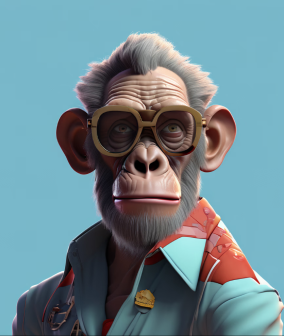
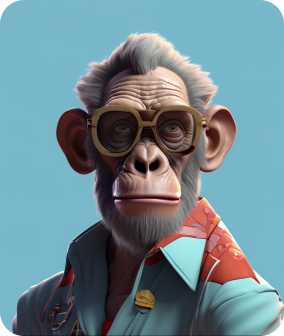
Ohhh... stup... slick! Collection done!

diff --git a/src/components/CollectSlider/CollectSlider.jsx b/src/components/CollectSlider/CollectSlider.jsx
@@ -1,0 +1,85 @@
+import React, { useRef } from "react";
+// import Slider from "react-slick";
+import "slick-carousel/slick/slick.css";
+import "slick-carousel/slick/slick-theme.css";
+import PropTypes from "prop-types";
+import { ButtonThumb, StyledSlider } from "./CollectSlider.styled";
+// import MindMapUnit from "../MindMapUnit/MindMapUnit";
+// import { useMedia } from "use-media";
+import CollectionUnit from "../CollectionUnit/CollectionUnit";
+
+function CollectSlider({ photos }) {
+    const sliderRef = useRef(null);
+    // const isMobScreen = useMedia({ maxWidth: "767px" });
+
+    const settings = {
+        dots: false,
+        infinite: false,
+        arrows: false,
+        speed: 666,
+        slidesToShow: 4,
+        slidesToScroll: 1,
+        initialSlide: 0,
+        variableWidth: true,
+        afterChange: (currentSlide) => {
+            console.log("Поточний слайд:", currentSlide);
+            // Тут можна додати додаткову логіку, якщо потрібно
+        },
+        responsive: [
+            {
+                breakpoint: 767,
+                settings: {
+                    slidesToShow: 1,
+                    slidesToScroll: 1,
+                },
+            },
+            {
+                breakpoint: 1279,
+                settings: {
+                    slidesToShow: 2,
+                    slidesToScroll: 1,
+                },
+            },
+        ],
+    };
+
+    const handlePrevClick = () => {
+        sliderRef.current.slickPrev();
+    };
+
+    const handleNextClick = () => {
+        sliderRef.current.slickNext();
+    };
+
+    const onSlideClick = () => {
+        sliderRef.current.slickNext();
+    };
+
+    return (
+        <>
+            <StyledSlider ref={sliderRef} {...settings}>
+                {photos.map((unit, index) => (
+                    <CollectionUnit
+                        key={index}
+                        unit={unit}
+                        slideOnClick={onSlideClick}
+                    />
+                ))}
+            </StyledSlider>
+            <ButtonThumb>
+                <button type='button' onClick={handlePrevClick}>
+                    Prev
+                </button>
+                <button type='button' onClick={handleNextClick}>
+                    Next
+                </button>
+            </ButtonThumb>
+        </>
+    );
+}
+
+export default CollectSlider;
+
+CollectSlider.propTypes = {
+    photos: PropTypes.array.isRequired,
+};

diff --git a/src/components/CollectSlider/CollectSlider.styled.js b/src/components/CollectSlider/CollectSlider.styled.js
@@ -1,0 +1,50 @@
+import Slider from "react-slick";
+import styled from "styled-components";
+import { root } from "../../stylesheets/root";
+
+export const StyledSlider = styled(Slider)`
+    display: flex;
+    width: 216px;
+    height: 256px;
+    margin: 0 auto 24px;
+    border-radius: 12px;
+
+    .slick-track {
+        width: 4444px !important;
+    }
+
+    @media (min-width: ${root.breakpoints.tablet}) {
+        width: 592px;
+        height: 336px;
+    }
+
+    @media (min-width: ${root.breakpoints.desktop}) {
+        width: 1032px;
+        height: 280px;
+        margin-bottom: 48px;
+    }
+`;
+
+export const ButtonThumb = styled.div`
+    display: flex;
+    justify-content: space-between;
+    align-items: center;
+    margin: 0 auto;
+    width: 150px;
+
+    button {
+        background-color: transparent;
+        border: none;
+        font-family: ${root.fonts.biro};
+        font-weight: 400;
+        font-size: 24px;
+        line-height: 1;
+        color: ${root.colors.textLigth};
+
+        &:active,
+        &:hover,
+        &:focus {
+            color: ${root.colors.mainPinkColor};
+        }
+    }
+`;

diff --git a/src/components/Collection/Collection.styled.js b/src/components/Collection/Collection.styled.js
@@ -1,0 +1,37 @@
+import styled from "styled-components";
+import { root } from "../../stylesheets/root";
+
+export const CollectContainer = styled.div`
+    margin: 0 auto;
+    padding: ${root.container.paddingMob};
+
+    h2 {
+        font-family: ${root.fonts.grotesk};
+        font-weight: 900;
+        font-size: 44px;
+        line-height: 0.9;
+        text-transform: uppercase;
+        color: ${root.colors.textLigth};
+        text-align: center;
+        margin-bottom: 24px;
+    }
+
+    @media (min-width: ${root.breakpoints.tablet}) {
+        padding: ${root.container.paddingTab};
+
+        h2 {
+            font-size: 80px;
+            line-height: 1;
+            margin-bottom: 40px;
+        }
+    }
+
+    @media (min-width: ${root.breakpoints.desktop}) {
+        padding: ${root.container.paddingDesk};
+
+        h2 {
+            font-size: 160px;
+            margin-bottom: 80px;
+        }
+    }
+`;

diff --git a/src/components/Collection/Collection.jsx b/src/components/Collection/Collection.jsx
@@ -1,0 +1,26 @@
+import React from "react";
+import CollectSlider from "../CollectSlider/CollectSlider";
+import { Section } from "../../GlobalStyle.styled";
+import { CollectContainer } from "./Collection.styled";
+import collection from "../../exports/collection";
+import { useMedia } from "use-media";
+
+function Collection() {
+    const isMobScreen = useMedia({ maxWidth: "767px" });
+    return (
+        <Section>
+            <CollectContainer>
+                <h2>collection</h2>
+                <CollectSlider
+                    photos={
+                        isMobScreen
+                            ? collection.imgMobile
+                            : collection.imgDesktop
+                    }
+                />
+            </CollectContainer>
+        </Section>
+    );
+}
+
+export default Collection;

diff --git a/src/components/CollectionUnit/CollectionUnit.styled.js b/src/components/CollectionUnit/CollectionUnit.styled.js
@@ -1,0 +1,39 @@
+import styled from "styled-components";
+import { root } from "../../stylesheets/root";
+
+export const UnitThumb = styled.div`
+    position: relative;
+    width: 216px;
+    height: 256px;
+    border-radius: 12px;
+    overflow: hidden;
+    margin-right: 24px;
+
+    img {
+        position: absolute;
+        top: 50%;
+        left: 50%;
+        transform: translate(-50%, -50%);
+        cursor: pointer;
+    }
+
+    @media (min-width: ${root.breakpoints.tablet}) {
+        width: 284px;
+        height: 336px;
+
+        img {
+            width: 343px;
+            height: 347px;
+        }
+    }
+
+    @media (min-width: ${root.breakpoints.desktop}) {
+        width: 240px;
+        height: 280px;
+
+        img {
+            width: 324px;
+            height: 323px;
+        }
+    }
+`;

diff --git a/src/components/CollectionUnit/CollectionUnit.jsx b/src/components/CollectionUnit/CollectionUnit.jsx
@@ -1,0 +1,23 @@
+import React from "react";
+import PropTypes from "prop-types";
+import { UnitThumb } from "./CollectionUnit.styled";
+
+function CollectionUnit({ unit, slideOnClick }) {
+    return (
+        <UnitThumb onClick={() => slideOnClick()}>
+            <img
+                src={unit.mobile1x || unit.desktop1x}
+                alt={unit.alt}
+                srcSet={`${unit.mobile1x || unit.desktop1x} 1x, 
+                ${unit.mobile2x || unit.desktop2x} 2x`}
+            />
+        </UnitThumb>
+    );
+}
+
+export default CollectionUnit;
+
+CollectionUnit.propTypes = {
+    unit: PropTypes.object.isRequired,
+    slideOnClick: PropTypes.func,
+};

diff --git a/src/App.jsx b/src/App.jsx
@@ -4,6 +4,7 @@ import Hero from "./components/Hero/Hero";
 import About from "./components/About/About";
 import MindMap from "./components/MindMap/MindMap";
 import FaqUnitsList from "./components/FaqUnitsList/FaqUnitsList";
+import Collection from "./components/Collection/Collection";
 
 function App() {
     return (
@@ -12,6 +13,7 @@ function App() {
             <About />
             <MindMap />
             <FaqUnitsList />
+            <Collection />
 
             <GlobalStyle />
         </>

diff --git a/src/components/FaqUnit/FaqUnit.styled.js b/src/components/FaqUnit/FaqUnit.styled.js
@@ -13,7 +13,7 @@ export const NumberThumb = styled.span`
     font-weight: 400;
     font-size: 12px;
     line-height: 1.67;
-    width: 26px;
+    width: 28px;
     margin-left: auto;
     color: ${root.colors.mainPinkColor};
 `;

diff --git a/src/components/MapSlider/MapSlider.jsx b/src/components/MapSlider/MapSlider.jsx
@@ -1,5 +1,4 @@
 import React, { useRef } from "react";
-// import Slider from "react-slick";
 import "slick-carousel/slick/slick.css";
 import "slick-carousel/slick/slick-theme.css";
 import PropTypes from "prop-types";
